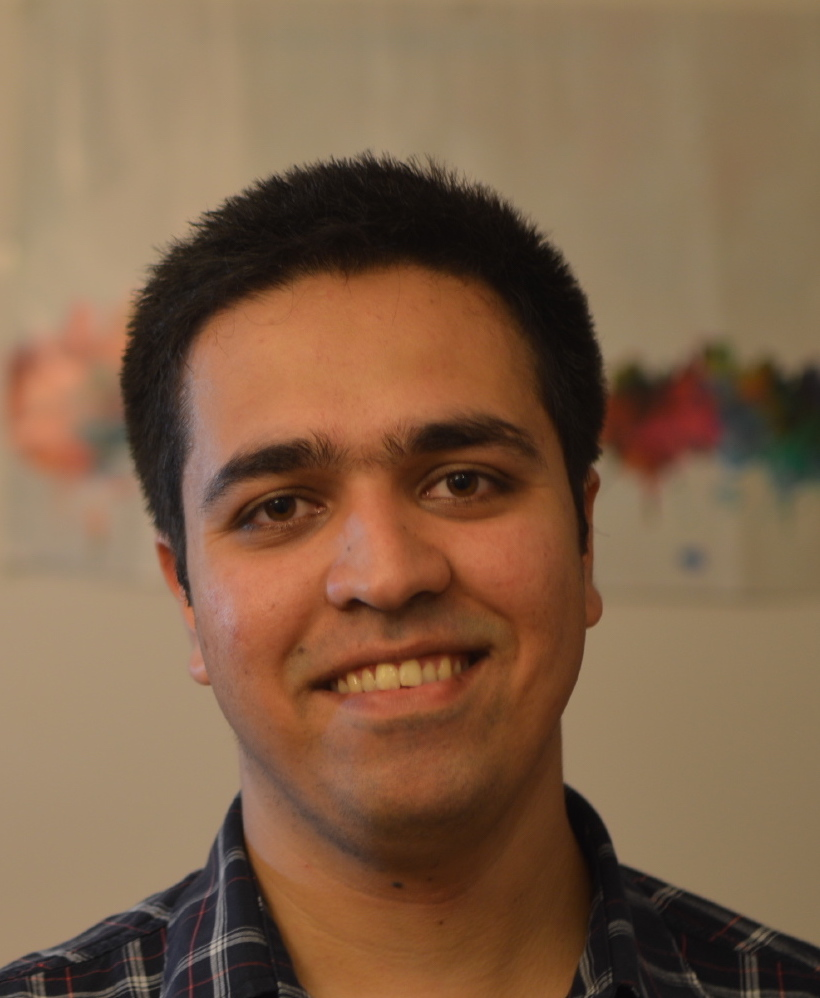
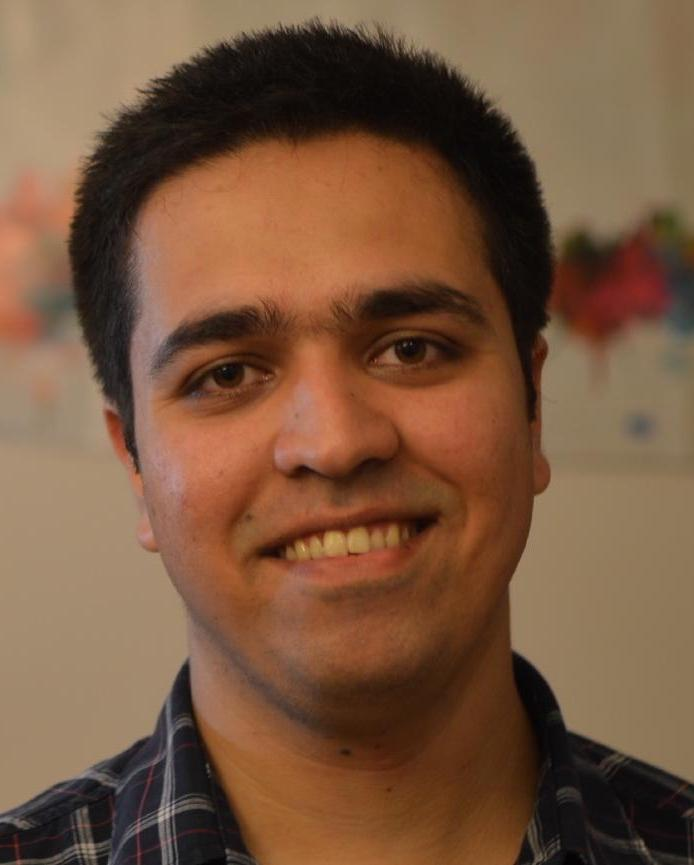
Improve layout of survey speakers
This also includes changing some pictures.

diff --git a/www/styles.css b/www/styles.css
@@ -81,33 +81,34 @@
 }
 
 .survey-speakers {
-  display: flex;
-  flex-wrap: wrap;
-  justify-content: center;
-  align-items: baseline;
+  display: grid;
+  grid-template-columns: 1fr;
+  align-content: center;
+  justify-items: center;
+  align-items: end;
   gap: 3rem 2rem;
+}
+
+@media (min-width: 768px) {
+  .survey-speakers {
+    grid-template-columns: 1fr 1fr;
+  }
 }
 
 .survey-speakers__speaker {
   display: flex;
   flex-direction: column;
   align-items: center;
-  width: min(80vw, 250px);
-  height: min(90vw, 330px);
-}
-
-.survey-speakers__speaker__photo-wrapper {
-  display: flex;
-  justify-content: center;
-  align-items: center;
 }
 
 .survey-speakers__speaker__photo-wrapper img {
-  width: 100%;
+  max-width: 200px;
+  max-height: 200px;
 }
 
 .survey-speakers__speaker__name {
   margin-top: 1rem;
   font-size: 2rem;
   font-weight: bold;
+  text-align: center;
 }
